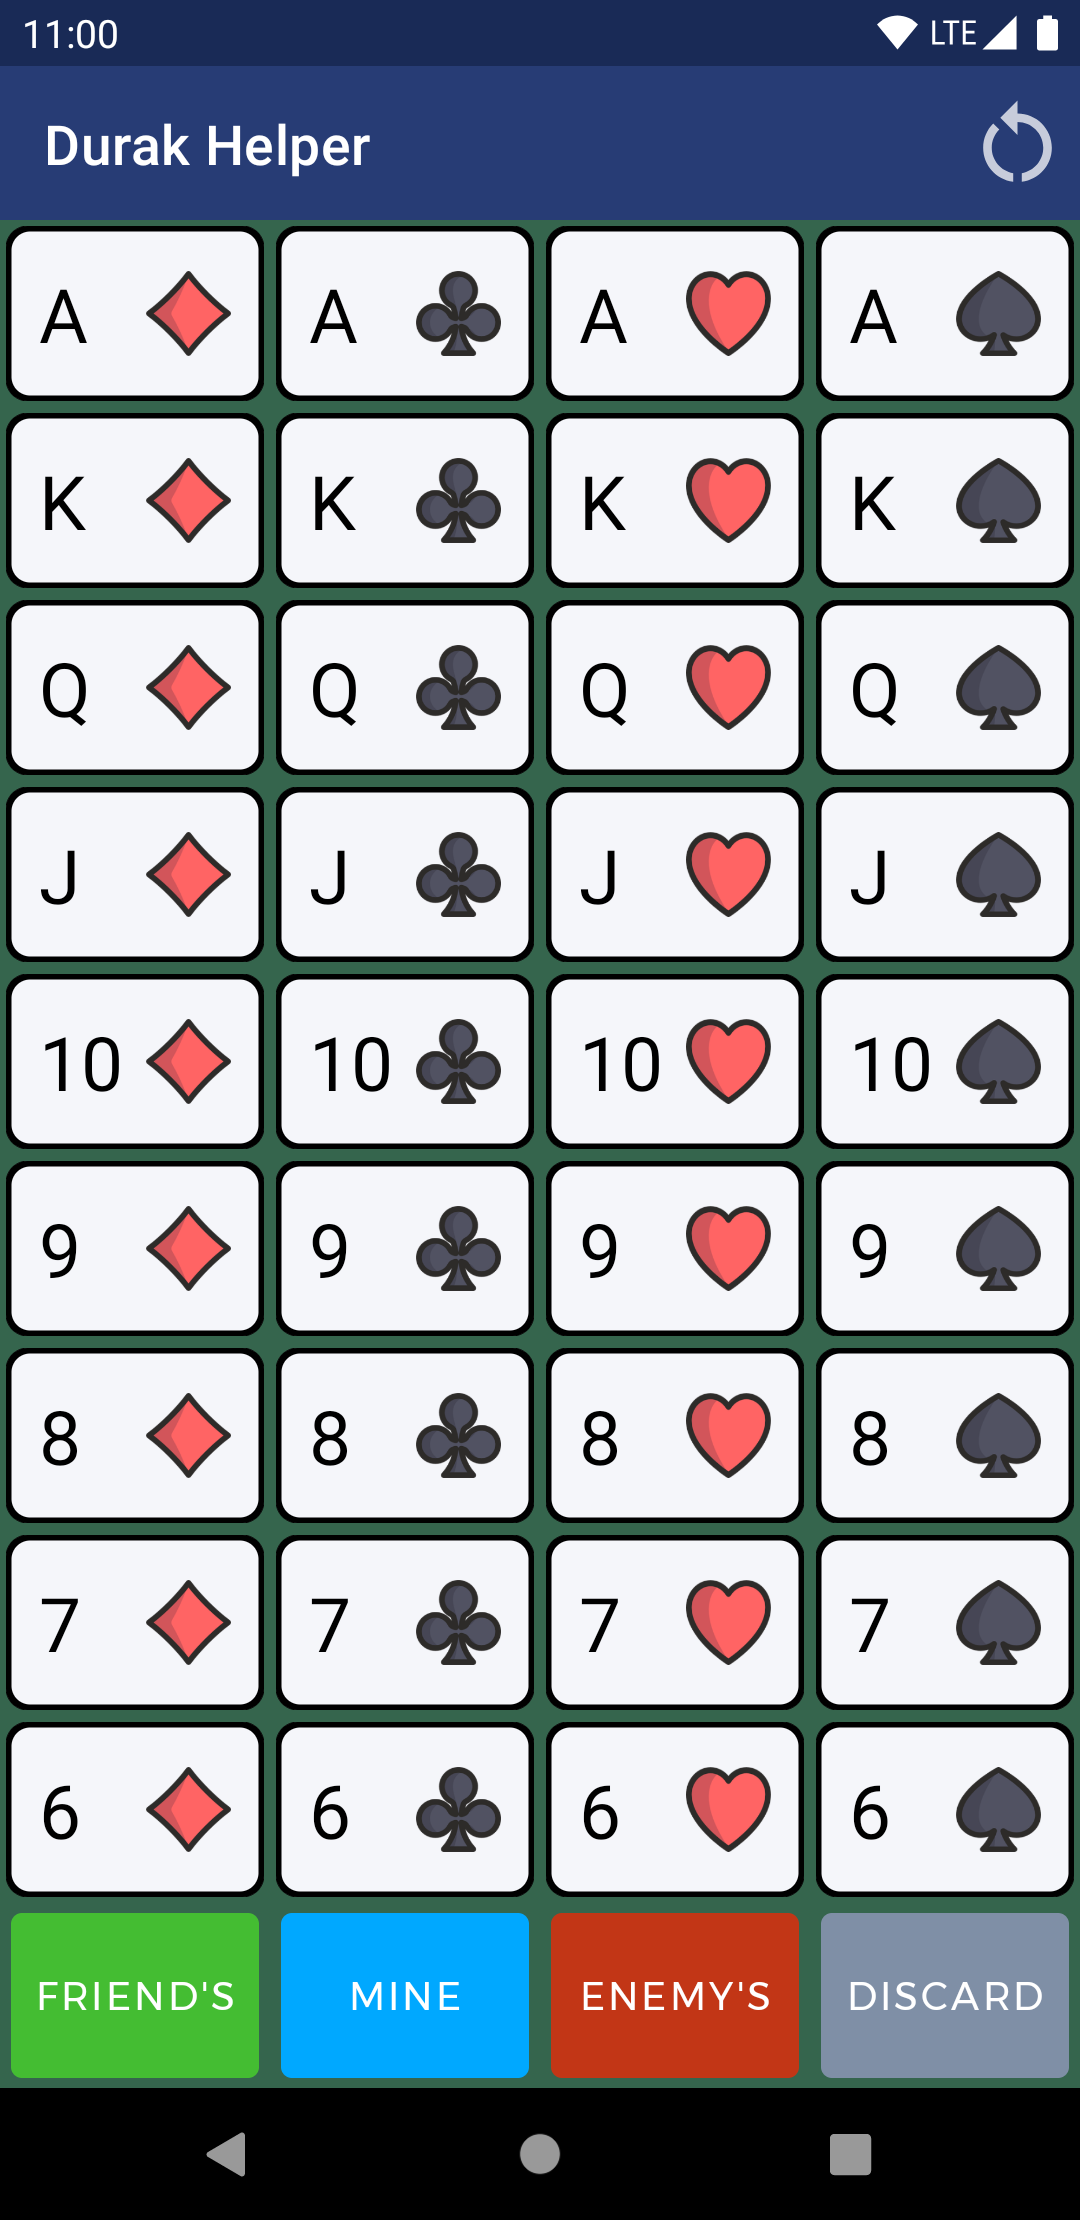
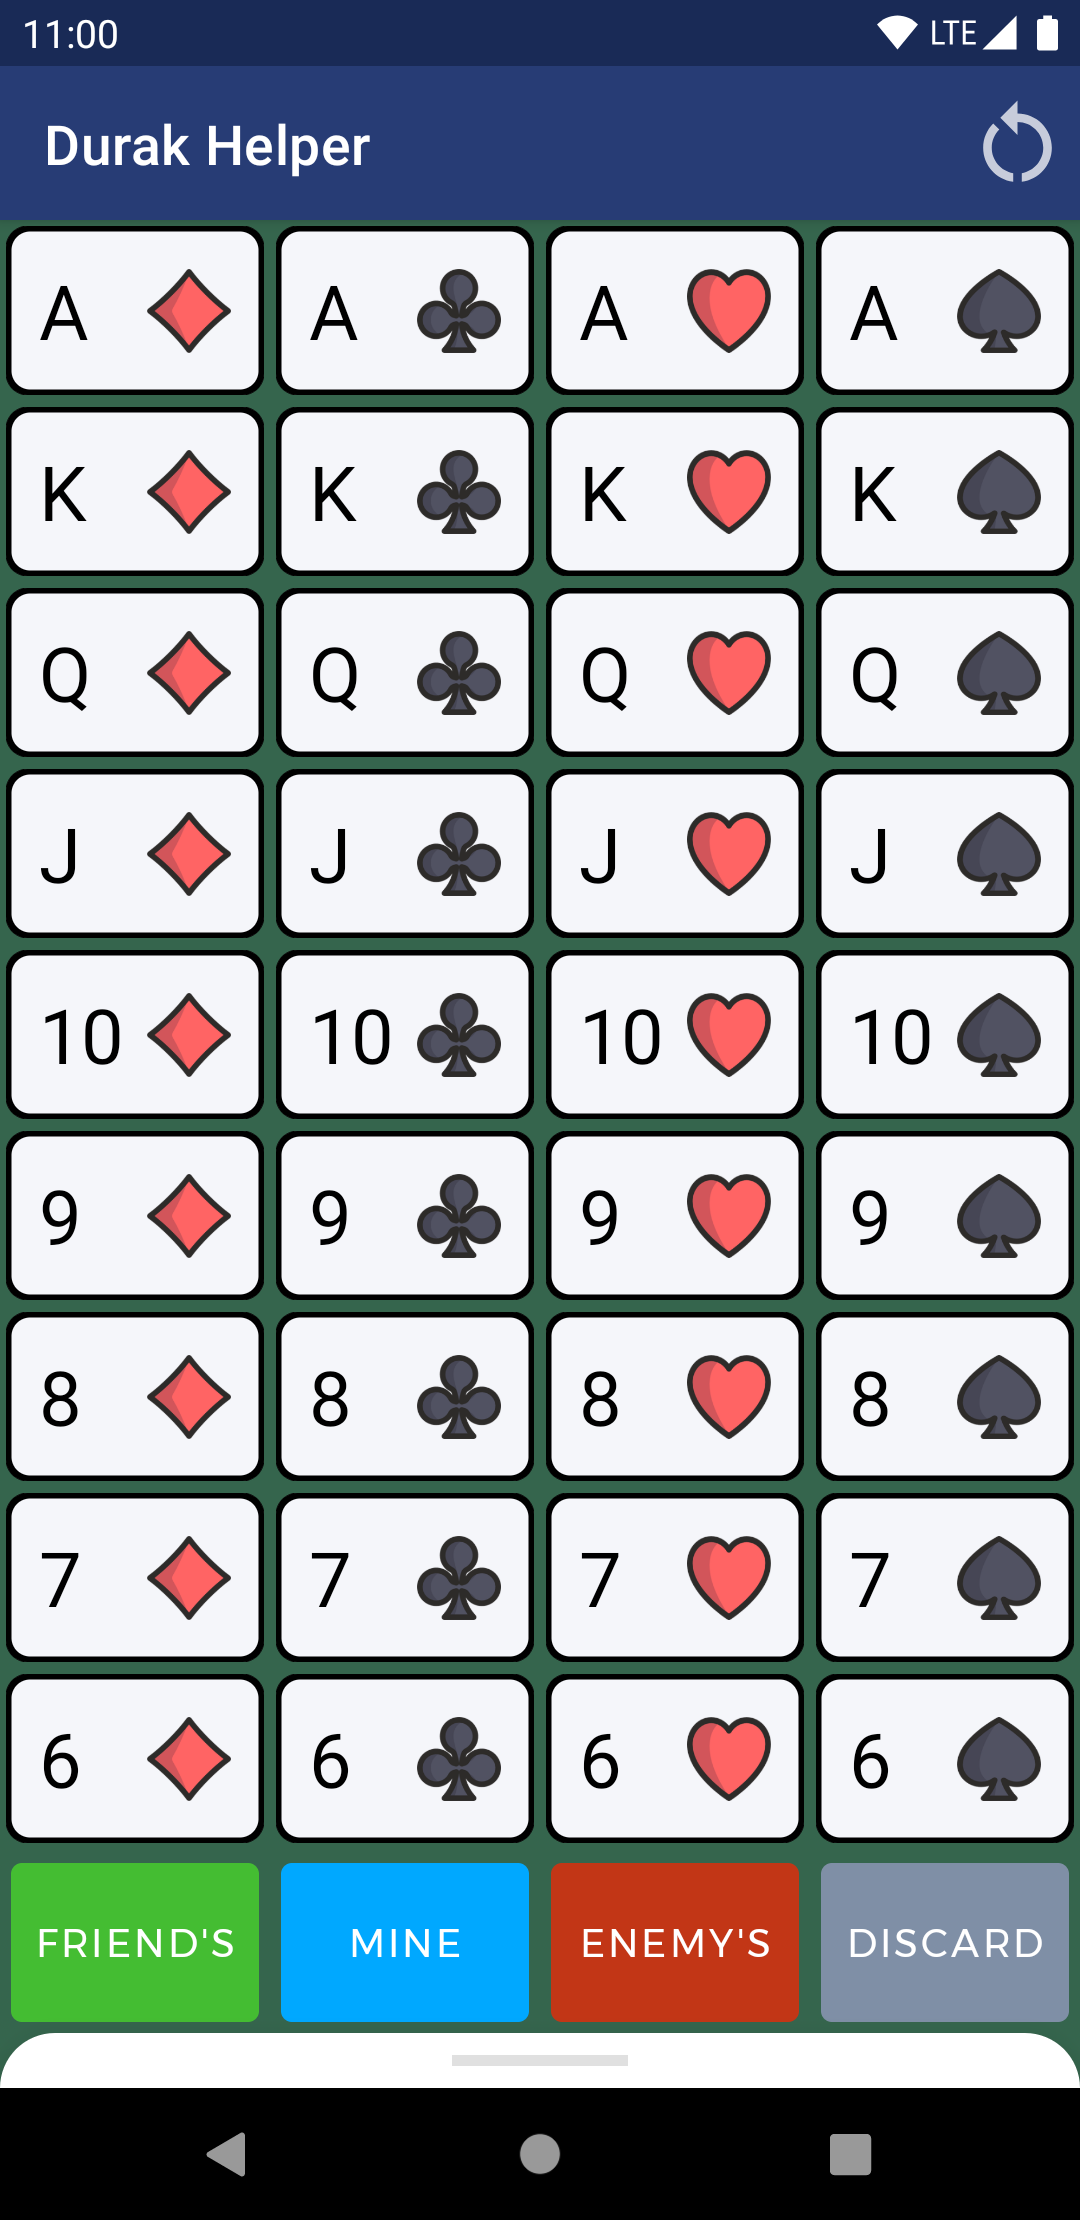
Updated README

diff --git a/README_RU.md b/README_RU.md
@@ -5,9 +5,11 @@
 
 ## Скриншоты
 
-Новая игра | Два игрока | Три игрока |
---- | --- | --- |
-![](screenshots/Screenshot_new_game.png) | ![](screenshots/Screenshot_two_players.png) | ![](screenshots/Screenshot_three_players.png)
+Новая игра | Выбор козыря
+--- | ---
+![](screenshots/Screenshot_new_game.png)  | ![](screenshots/Screenshot_bottom_sheet.png) |
+Три игрока | Два игрока
+![](screenshots/Screenshot_three_players.png) | ![](screenshots/Screenshot_two_players.png)
 
 ## Использованные технологии
 

diff --git a/README.md b/README.md
@@ -5,9 +5,11 @@ Built with Jetpack Compose.
 
 ## Screenshots
 
-New game | Two players (1vs1) | Three players |
---- | --- | --- |
-![](screenshots/Screenshot_new_game.png) | ![](screenshots/Screenshot_two_players.png) | ![](screenshots/Screenshot_three_players.png)
+New game | Choosing a trump
+--- | ---
+![](screenshots/Screenshot_new_game.png)  | ![](screenshots/Screenshot_bottom_sheet.png) |
+Three players | Two players (1vs1)
+![](screenshots/Screenshot_three_players.png) | ![](screenshots/Screenshot_two_players.png)
 
 ## Built With
 
